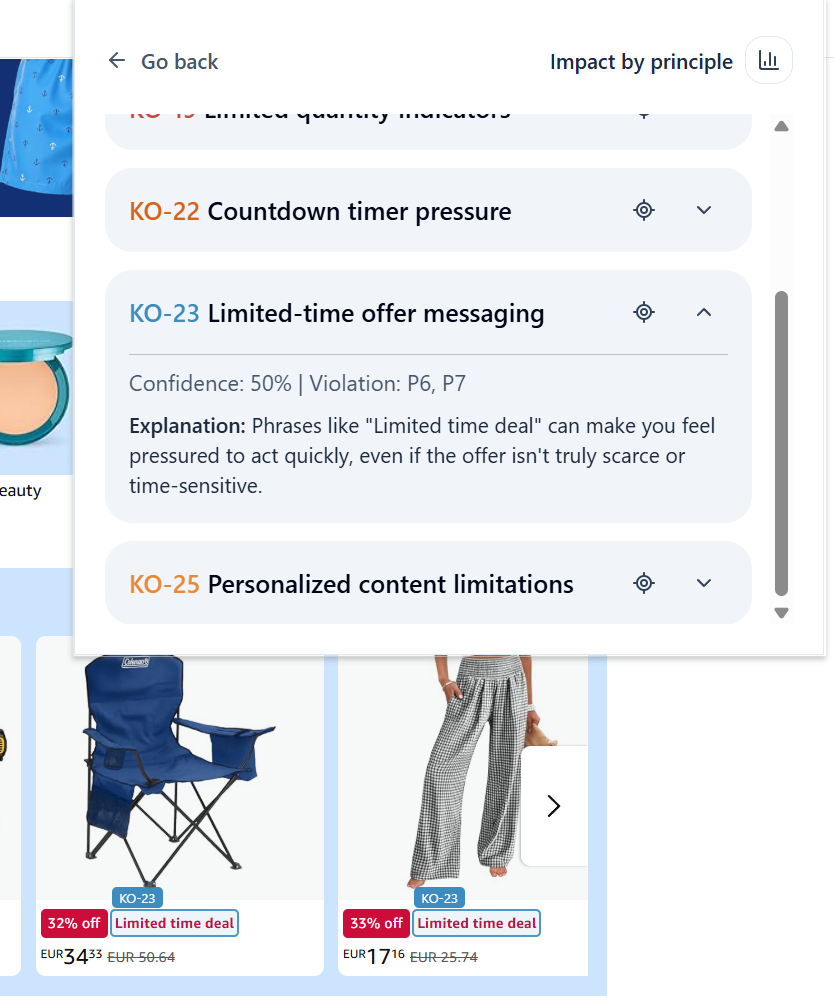
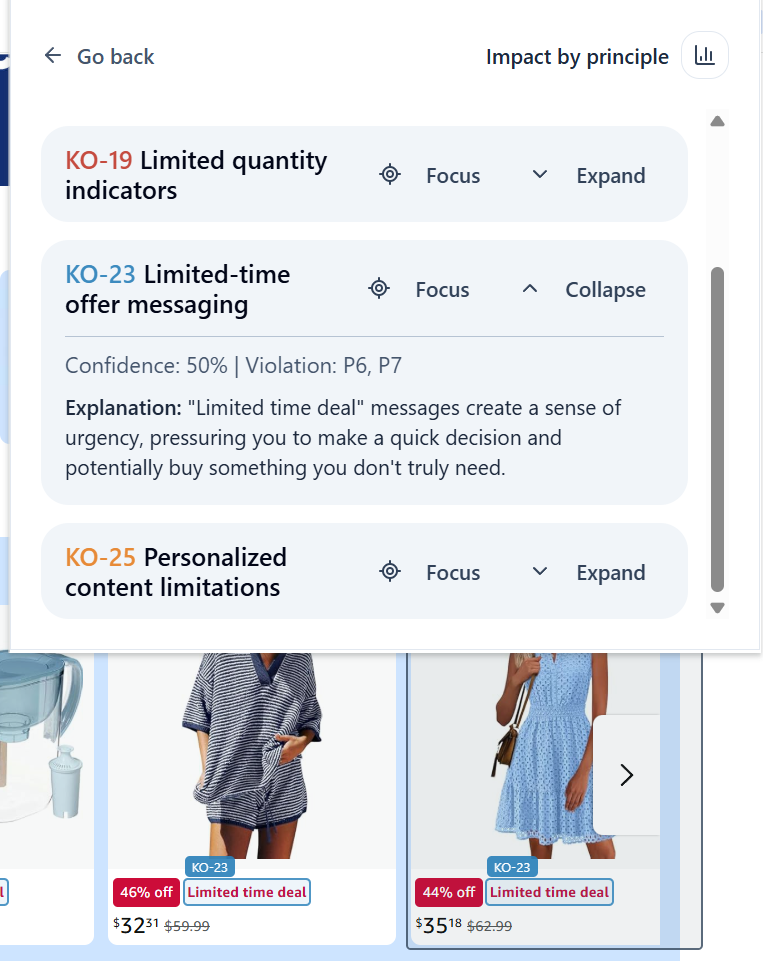
updating readme with newer screenshots (#38)

diff --git a/README.md b/README.md
@@ -27,9 +27,8 @@ After a scan, the popup shows:
 - per-rule suggestions in `Designer mode`
 - an overlay toggle to show or hide highlights on the page
 
-
-![Results summary | User mode](images/image-4.png)
-![Explanation of a deceptive pattern | User mode](images/image-5.png)
+<img src="images/image-4.png" alt="Results summary | User mode" width="420" />
+<img src="images/image-5.png" alt="Explanation of a deceptive pattern | User mode" width="420" />
 
 The principle scoring maps findings to seven principles:
 
